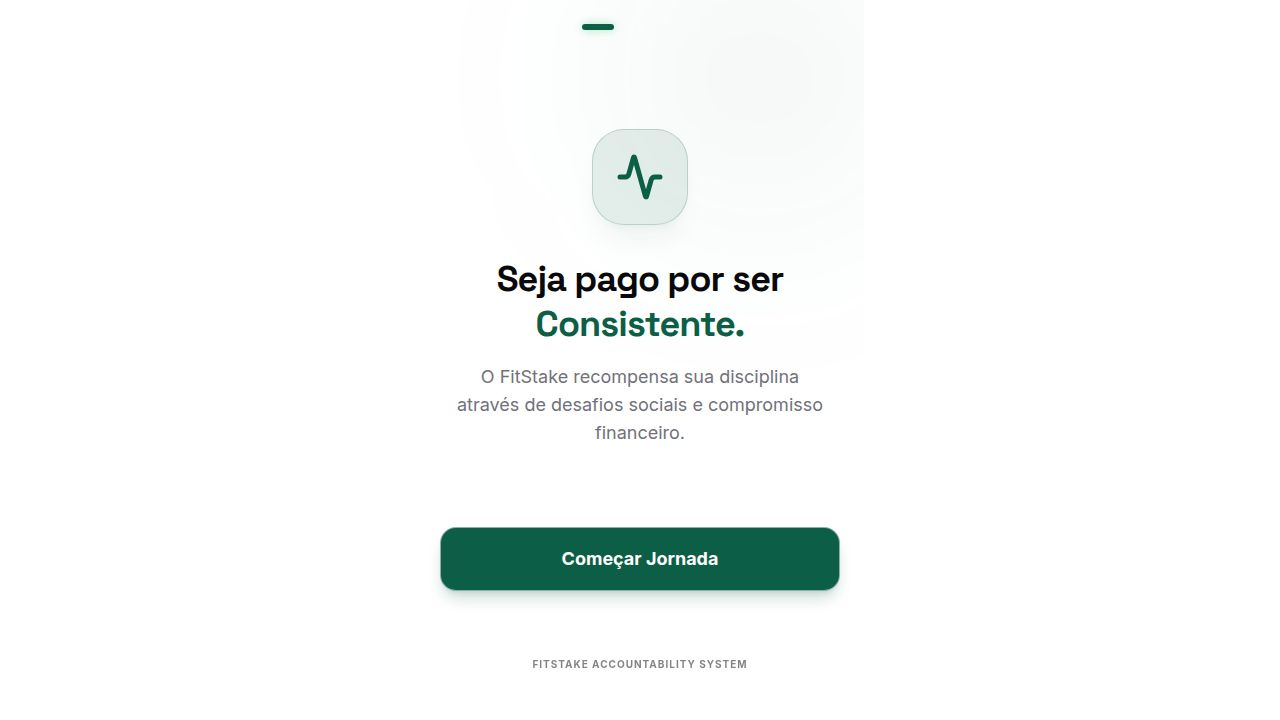
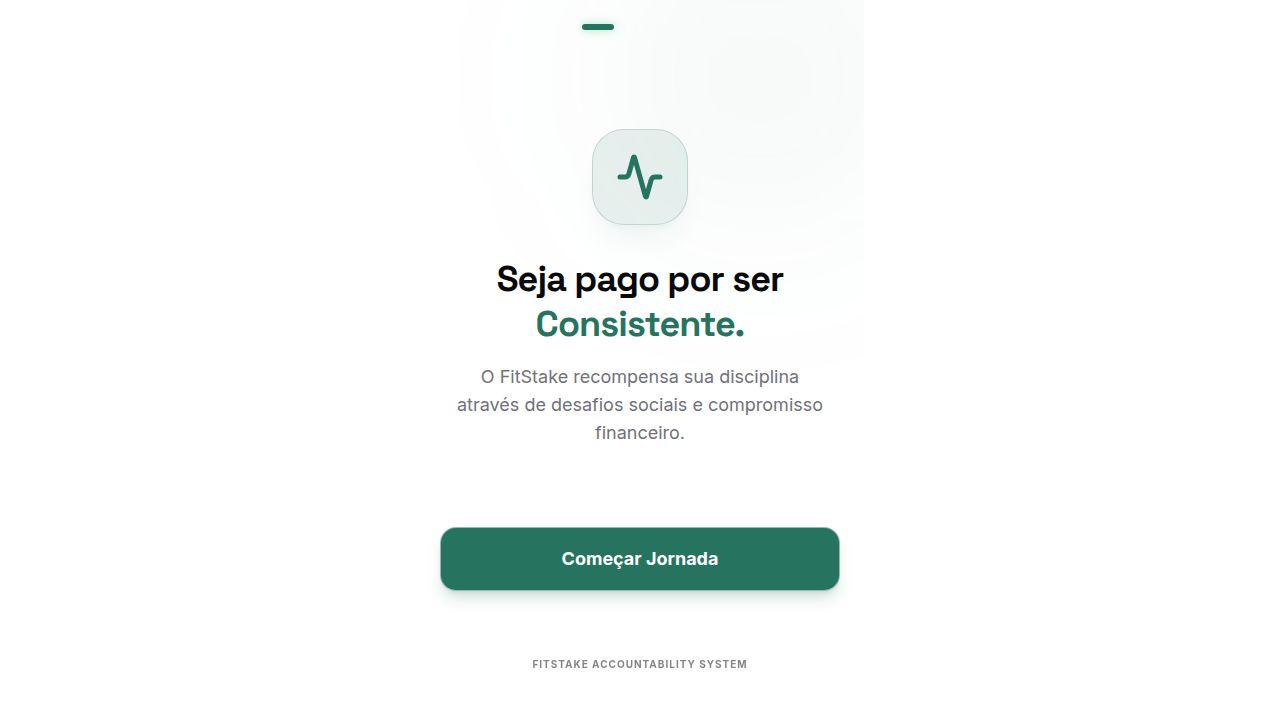
Update color scheme to a darker, more harmonious green
Adjust primary and accent colors in CSS for both light and dark modes to a less vibrant, more natural green, and reduce accent saturation.

Replit-Commit-Author: Agent
Replit-Commit-Session-Id: 0ebdc8db-07a7-4f37-a5e6-39f3d7051c28
Replit-Commit-Checkpoint-Type: full_checkpoint
Replit-Commit-Event-Id: 27b6b9ee-8190-4017-877f-a0c7446cdc25
Replit-Commit-Screenshot-Url: https://storage.googleapis.com/screenshot-production-us-central1/cc19ad50-2647-4531-8209-9a659b537e5d/0ebdc8db-07a7-4f37-a5e6-39f3d7051c28/mXOSFL3
Replit-Helium-Checkpoint-Created: true

diff --git a/client/src/index.css b/client/src/index.css
@@ -38,7 +38,7 @@
 }
 
 :root {
-  /* Light Mode - High Contrast & Modern */
+  /* Light Mode - Elegante e Harmonioso */
   --background: 0 0% 100%;
   --foreground: 240 10% 4%;
 
@@ -48,8 +48,8 @@
   --popover: 0 0% 100%;
   --popover-foreground: 240 10% 4%;
 
-  /* Brand Primary: Verde Floresta Profundo (Elegante e Seguro) */
-  --primary: 162 76% 21%;
+  /* Brand Primary: Verde Escuro Harmônico e Natural */
+  --primary: 165 50% 30%;
   --primary-foreground: 0 0% 100%;
 
   --secondary: 240 5% 96%;
@@ -58,20 +58,20 @@
   --muted: 240 5% 98%;
   --muted-foreground: 240 4% 46%;
 
-  /* Brand Highlight: Ouro/Bronze para Contraste */
-  --accent: 38 92% 50%;
+  /* Brand Highlight: Âmbar Suave */
+  --accent: 38 75% 48%;
   --accent-foreground: 0 0% 100%;
 
   --border: 240 6% 90%;
   --input: 240 6% 90%;
-  --ring: 162 76% 21%;
+  --ring: 165 50% 30%;
 
   --radius: 0.5rem;
 }
 
 @media (prefers-color-scheme: dark) {
   :root {
-    /* Dark Mode - Obsidian Style */
+    /* Dark Mode - Profundo e Harmônico */
     --background: 240 10% 4%;
     --foreground: 0 0% 98%;
 
@@ -81,9 +81,9 @@
     --popover: 240 10% 6%;
     --popover-foreground: 0 0% 98%;
 
-    /* Verde Primary: Menta Vibrante para Dark */
-    --primary: 158 95% 45%;
-    --primary-foreground: 158 100% 5%;
+    /* Verde Primary: Verde Escuro Natural para Dark */
+    --primary: 165 55% 40%;
+    --primary-foreground: 165 100% 5%;
 
     --secondary: 240 10% 10%;
     --secondary-foreground: 0 0% 98%;
@@ -91,7 +91,7 @@
     --muted: 240 10% 10%;
     --muted-foreground: 240 5% 65%;
 
-    --accent: 38 92% 50%;
+    --accent: 38 75% 48%;
     --accent-foreground: 0 0% 100%;
 
     --destructive: 0 84% 60%;
@@ -99,7 +99,7 @@
 
     --border: 240 10% 12%;
     --input: 240 10% 12%;
-    --ring: 158 95% 45%;
+    --ring: 165 55% 40%;
   }
 }
 
